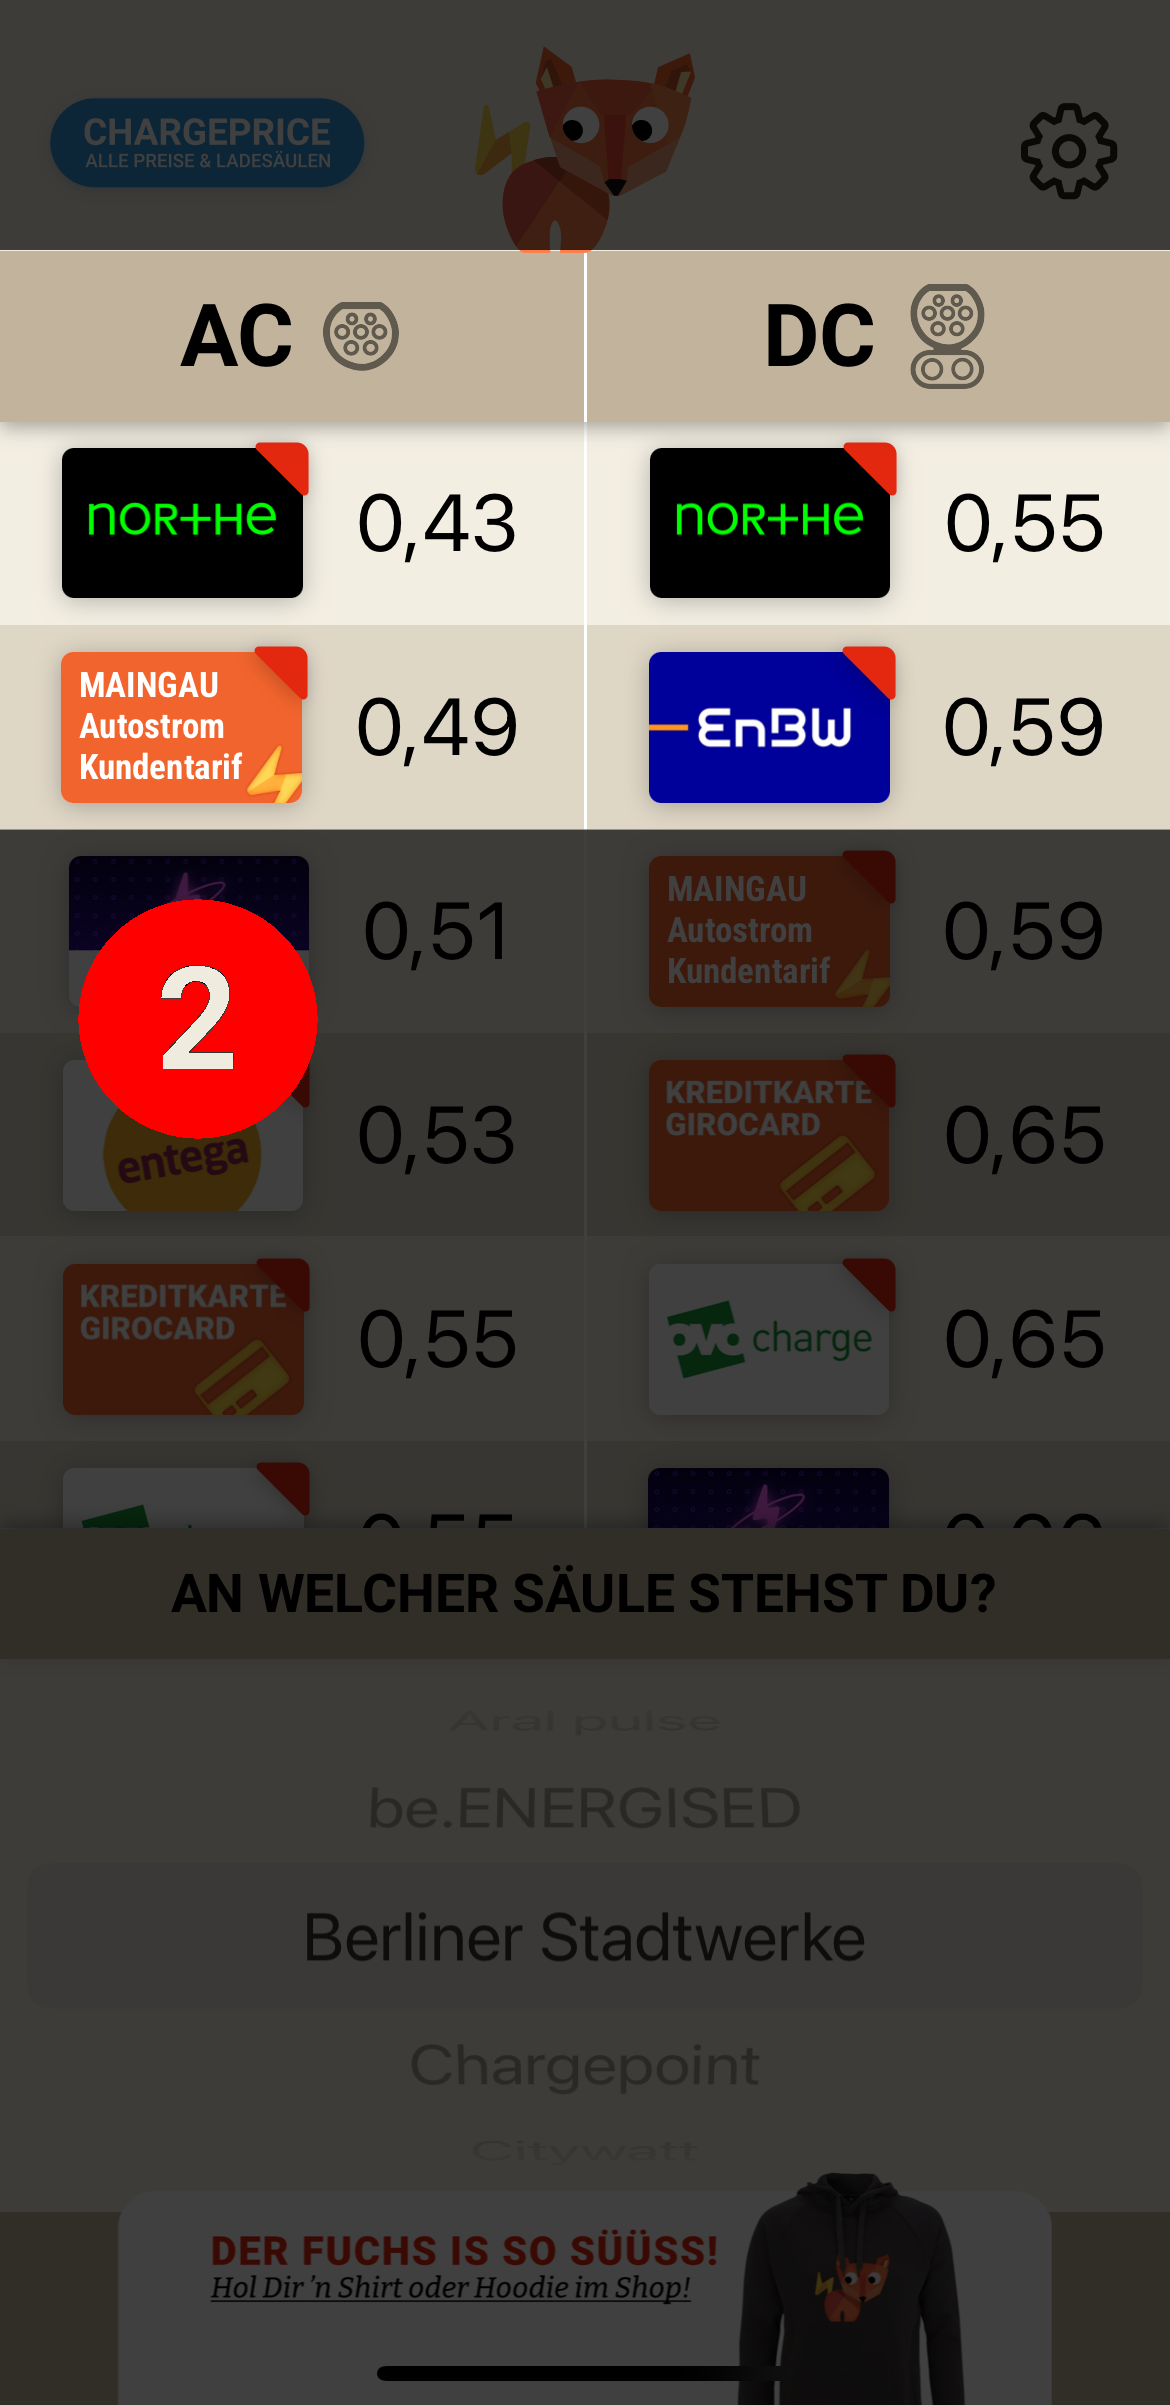
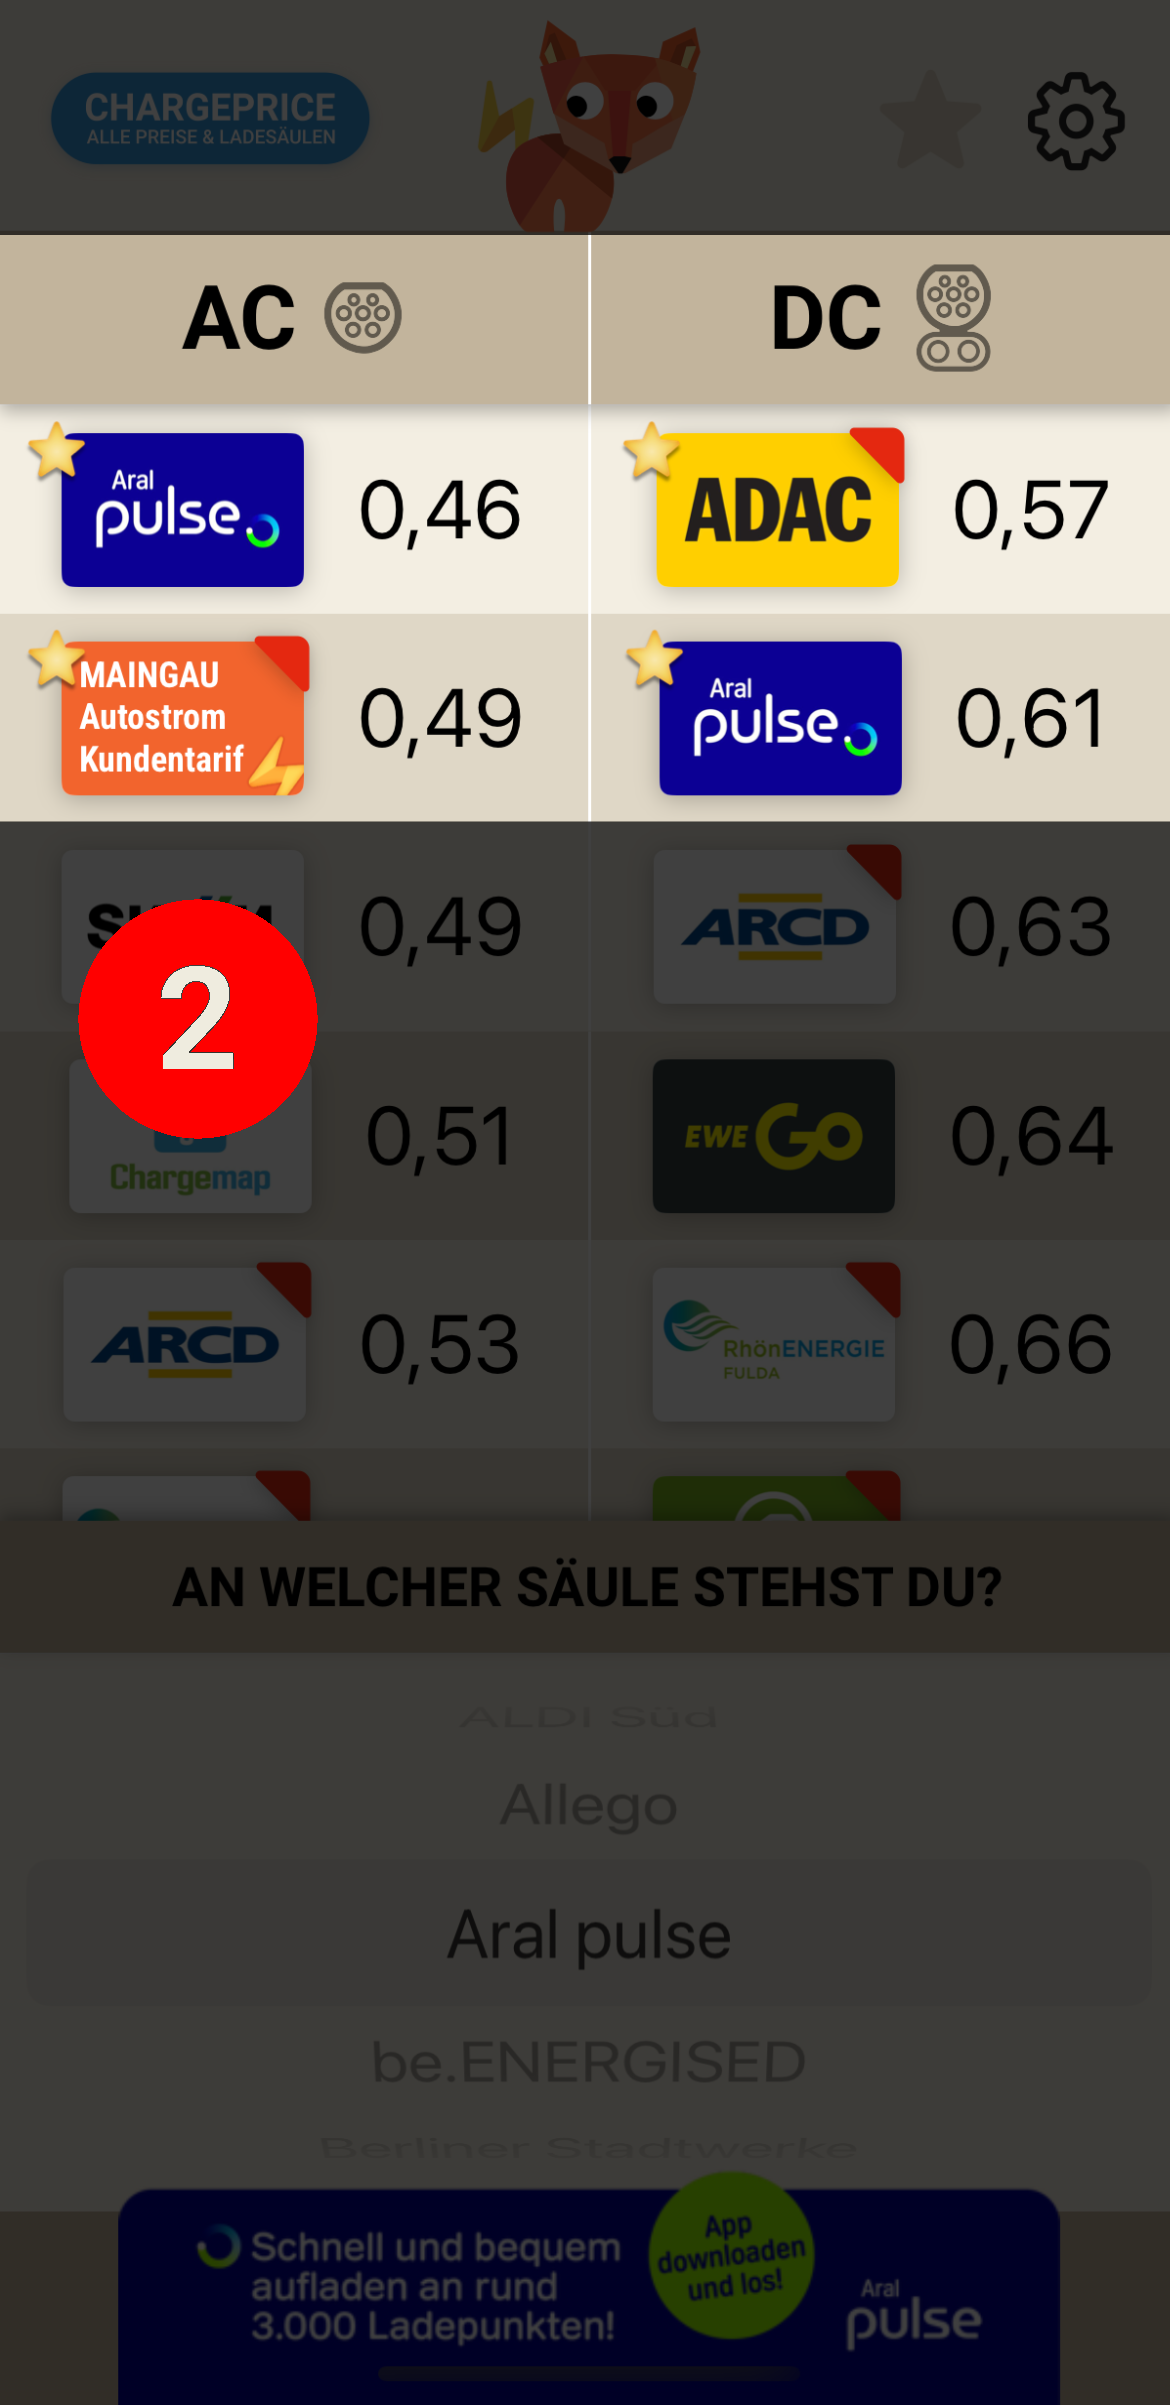
update onboarding

diff --git a/translations/de.tsx b/translations/de.tsx
@@ -64,7 +64,7 @@ const de = {
 	onboardingStep0Description:
 		"Wähle den Anbieter der Ladesäule, an der du stehst.",
 	onboardingStep1Description:
-		"Die günstigsten Ladekarten findest du oben in der Liste.",
+		"Die günstigsten Ladekarten findest du oben in der Liste. Deine Favoriten kannst du dir hier filtern.",
 	onboardingStep2Description: "Wirf einen Blick in die Settings!",
 	onboardingStep3Description:
 		"Hier kannst du deine persönlichen Ladetarife und weitere Ladesäulen-Betreiber hinzufügen.",

diff --git a/translations/en.tsx b/translations/en.tsx
@@ -63,7 +63,7 @@ const en = {
 	onboardingStep0Description:
 		"Select the provider of the charging station where you are standing.",
 	onboardingStep1Description:
-		"You can find the cheapest charging cards in the list above.",
+		"You can find the cheapest charging cards in the list above. You can filter your favorites here.",
 	onboardingStep2Description: "Take a look at the settings!",
 	onboardingStep3Description:
 		"Here you can add your personal charging tariffs and other charging station operators.",

diff --git a/screens/onboardingScreen.tsx b/screens/onboardingScreen.tsx
@@ -234,7 +234,7 @@ const styles = ScaledSheet.create({
 	},
 	overlaySubtitle1: {
 		position: "absolute",
-		bottom: scale(235),
+		bottom: scale(225),
 		left: scale(90),
 		right: scale(10),
 		color: "#fff",
